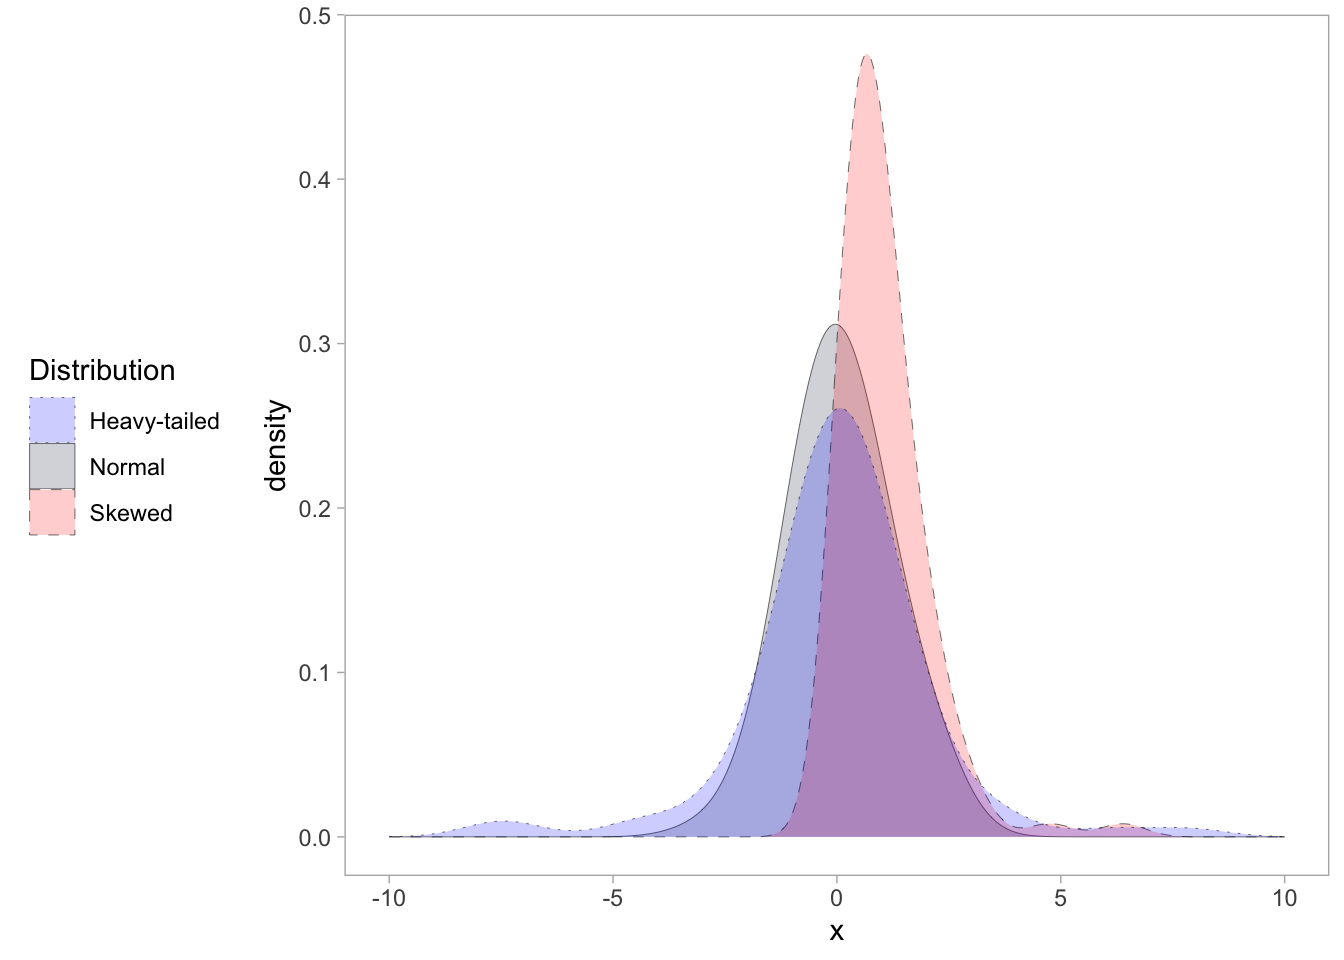
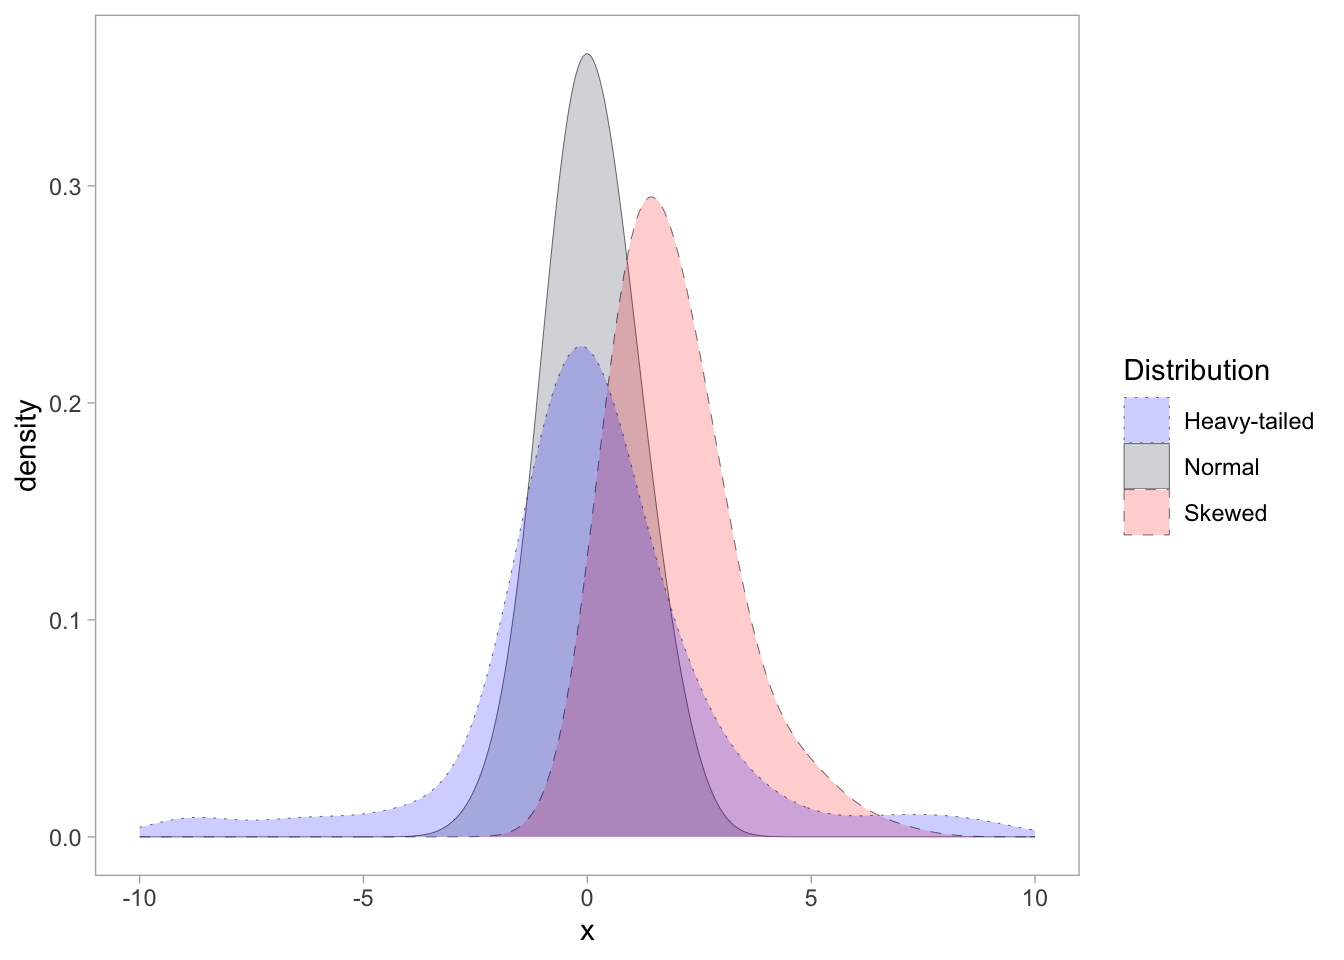
Updates

diff --git a/README.md b/README.md
@@ -44,14 +44,43 @@ devtools::install_github("ChristianGoueguel/specProc")
 ## Examples
 
 ``` r
+set.seed(123)
 tbl <- data.frame(
   normal = stats::rnorm(100),
-  skewed = stats::rgamma(100, shape = 1, scale = 1),
+  skewed = stats::rgamma(100, shape = 2, scale = 1),
   heavy_tailed = stats::rcauchy(100, location = 0, scale = 1)
   )
 ```
 
 <img src="man/figures/README-unnamed-chunk-4-1.png" width="90%" height="90%" />
+
+### descriptive statistics
+
+#### classical approach
+
+``` r
+specProc::summaryStats(tbl)
+#> # A tibble: 3 × 14
+#>   variable     mean  mode median   IQR    sd variance     cv     min   max range
+#>   <chr>       <dbl> <dbl>  <dbl> <dbl> <dbl>    <dbl>  <dbl>   <dbl> <dbl> <dbl>
+#> 1 heavy_tail… -1.43  0.81  -0.1   1.87  9.28   86.0   -649.  -80.6    8.98 89.6 
+#> 2 normal       0.09 -0.56   0.06  1.19  0.91    0.833 1011.   -2.31   2.19  4.50
+#> 3 skewed       1.93  0.76   1.62  1.52  1.26    1.58    65.3   0.244  6.65  6.41
+#> # ℹ 3 more variables: skewness <dbl>, kurtosis <dbl>, count <int>
+```
+
+#### robust approach
+
+``` r
+specProc::summaryStats(tbl, robust = TRUE)
+#> # A tibble: 3 × 14
+#>   variable    median   mad    Qn    Sn medcouple   LMC   RMC   rsd biloc biscale
+#>   <chr>        <dbl> <dbl> <dbl> <dbl>     <dbl> <dbl> <dbl> <dbl> <dbl>   <dbl>
+#> 1 heavy_tail…  -0.1   1.4   1.78  1.61     -0.03  0.54  0.36  2.08  0.05    2.01
+#> 2 normal        0.06  0.89  0.93  0.92      0.03  0.33  0.21  1.32  0.08    0.92
+#> 3 skewed        1.62  1.1   1.05  1.16      0.25 -0.05  0.47  1.63  1.79    1.21
+#> # ℹ 3 more variables: bivar <dbl>, rcv <dbl>, count <int>
+```
 
 ### adjusted boxplot
 
@@ -60,4 +89,4 @@ specProc::adjboxplot(tbl) +
   ggplot2::geom_hline(yintercept = 0, linetype = "dashed", linewidth = 0.1)
 ```
 
-<img src="man/figures/README-unnamed-chunk-5-1.png" width="90%" height="90%" />
+<img src="man/figures/README-unnamed-chunk-7-1.png" width="90%" height="90%" />
